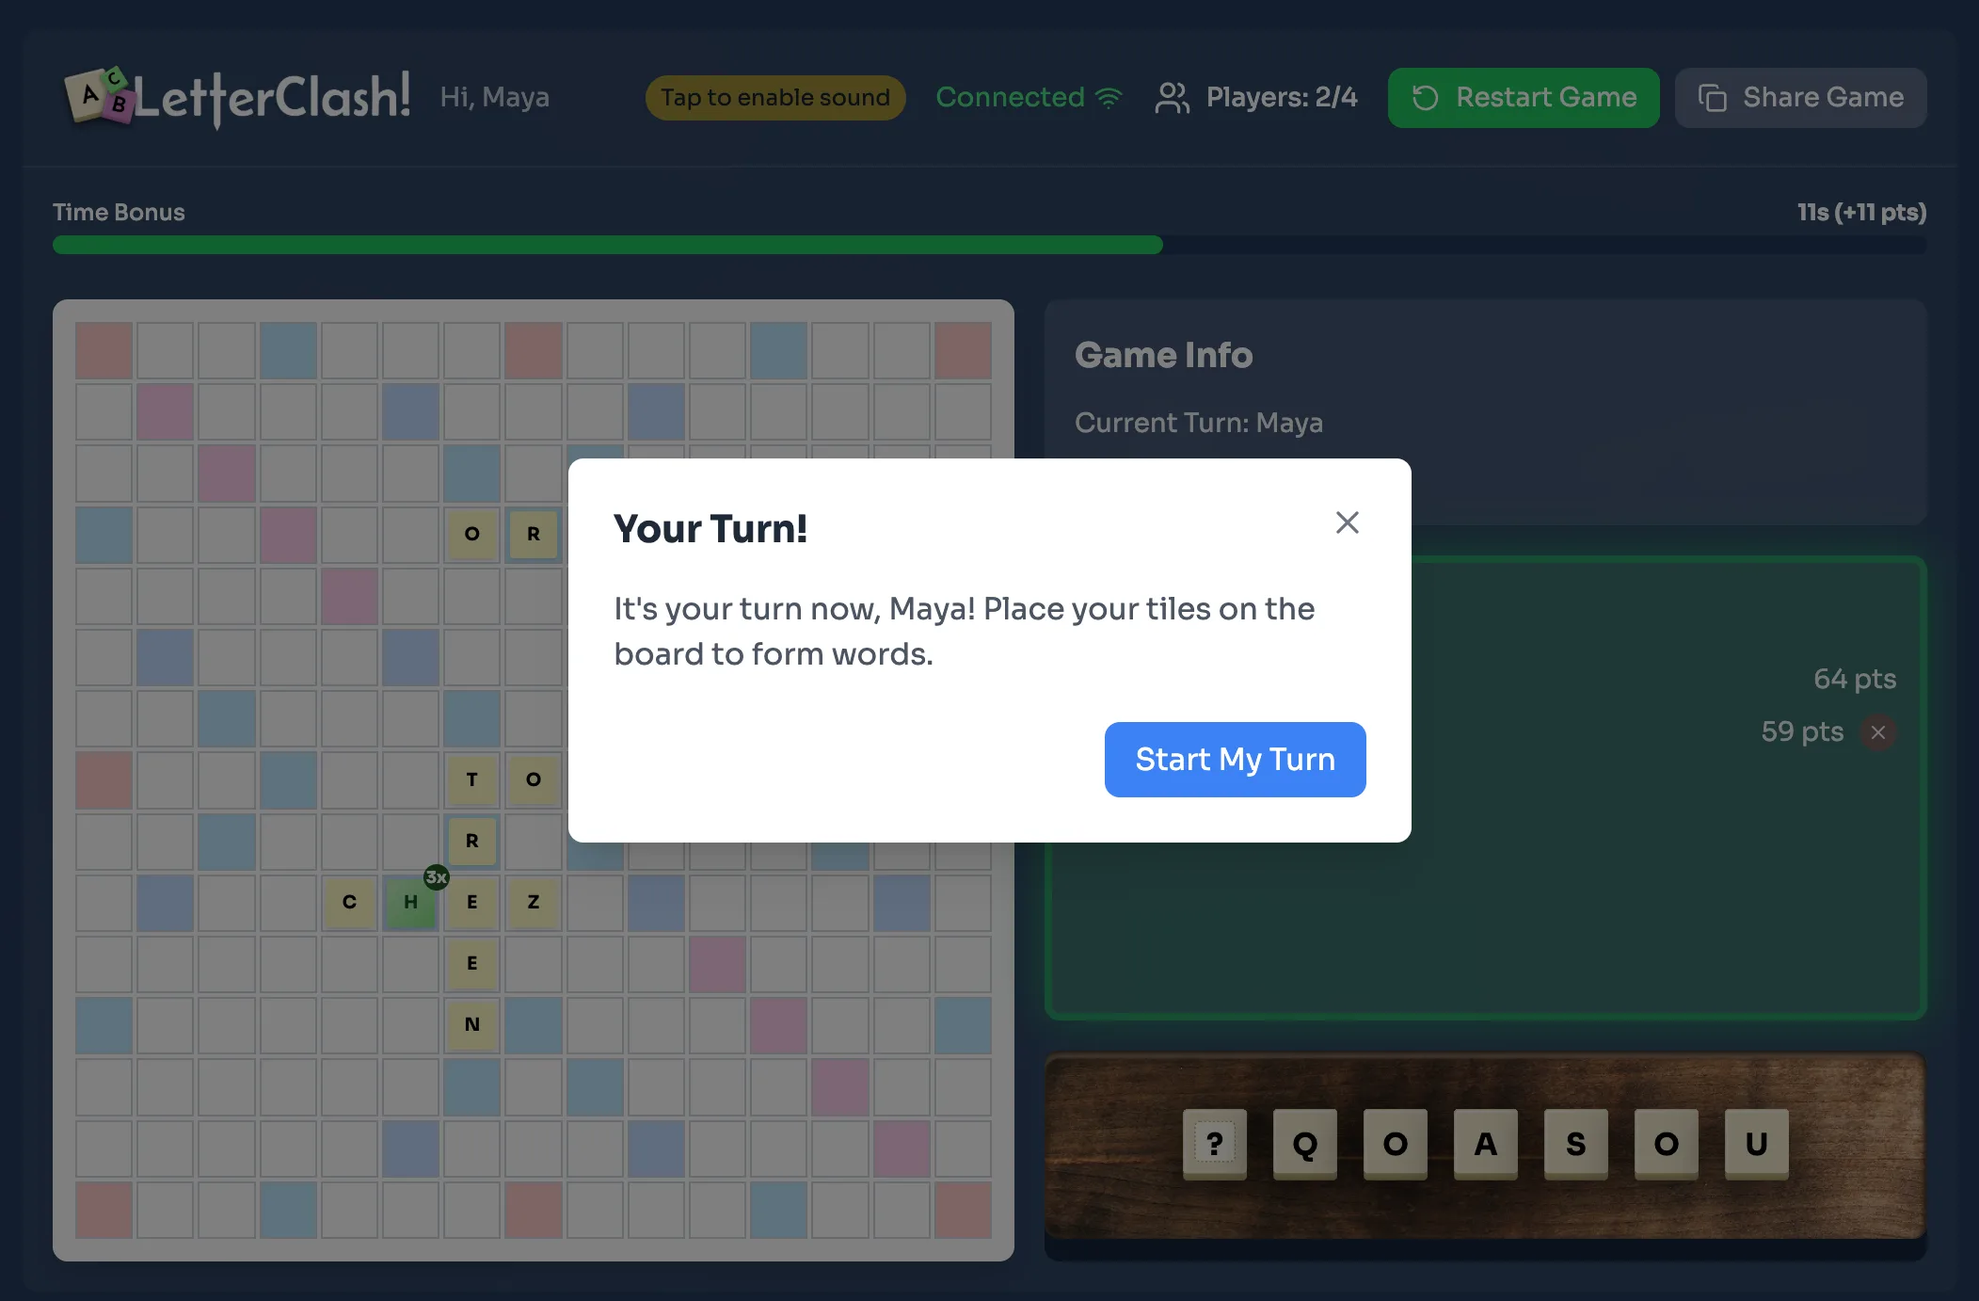
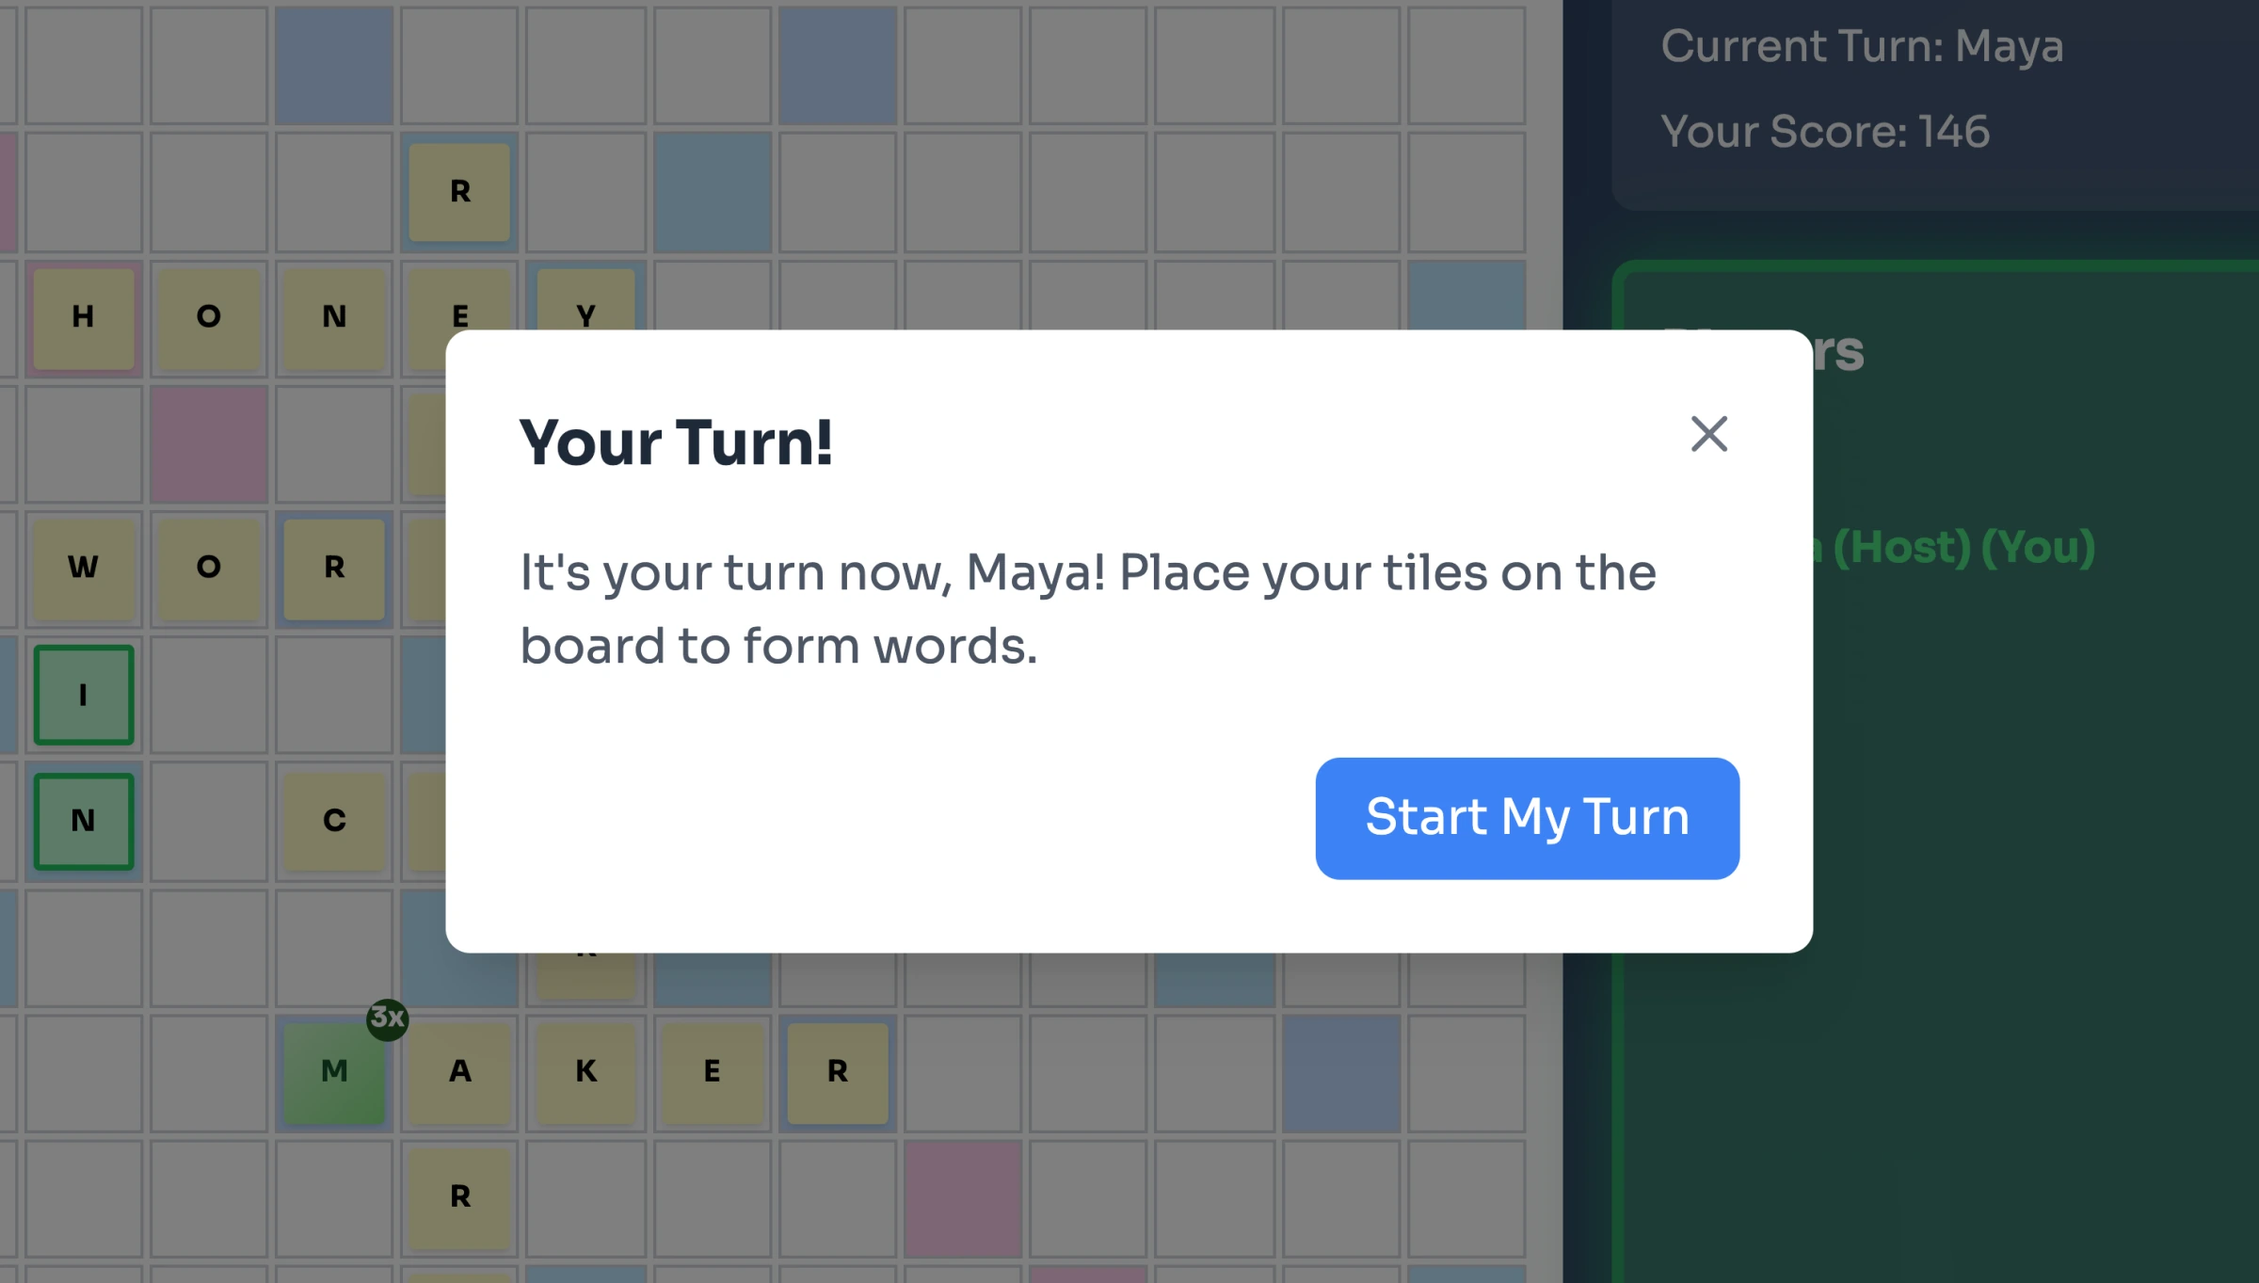
Refresh project screenshots and Letter Clash thumbnail

diff --git a/components/sections/thumbs/LetterClashThumb.tsx b/components/sections/thumbs/LetterClashThumb.tsx
@@ -1,247 +1,76 @@
 "use client";
 
-import * as React from "react";
-import { motion, useReducedMotion } from "framer-motion";
+import { Grid2X2, Timer, Users } from "lucide-react";
 
-const EASE_OUT = [0.22, 1, 0.36, 1] as const;
-// Near-critically damped: tiles snap onto the board, no wobble.
-const TILE_SPRING = { type: "spring", stiffness: 520, damping: 38, mass: 0.75 } as const;
-
-// Full-bleed board: 16 × 10 square cells exactly fill the card's 16:10 thumb.
-const COLS = 16;
-const ROWS = 10;
-const INK = "#1a1a1a";
-
-// MIKOLAJEK across row 4; PAWEL down col 8; the words share the A at (4,8).
-const ACROSS_ROW = 4;
-const DOWN_COL = 8;
-
-const ACROSS = [
-  { c: "M", v: 3, col: 3 },
-  { c: "I", v: 1, col: 4 },
-  { c: "K", v: 5, col: 5 },
-  { c: "O", v: 1, col: 6 },
-  { c: "L", v: 1, col: 7 },
-  { c: "A", v: 1, col: 8 },
-  { c: "J", v: 8, col: 9 },
-  { c: "E", v: 1, col: 10 },
-  { c: "K", v: 5, col: 11 },
+const PLAYED = [
+  { letter: "C", value: 3, row: 2, col: 1 },
+  { letter: "L", value: 1, row: 2, col: 2 },
+  { letter: "A", value: 1, row: 2, col: 3 },
+  { letter: "S", value: 1, row: 2, col: 4 },
+  { letter: "H", value: 4, row: 2, col: 5 },
+];
+const MOVE = [
+  { letter: "P", value: 3, row: 1, col: 3 },
+  { letter: "W", value: 4, row: 3, col: 3 },
 ];
 
-// The hover move, top to bottom, skipping the shared A at row 4.
-const DOWN = [
-  { c: "P", v: 3, row: 3 },
-  { c: "W", v: 4, row: 5 },
-  { c: "E", v: 1, row: 6 },
-  { c: "L", v: 1, row: 7 },
-];
-
-const DROP_DELAY = (i: number) => 0.05 + i * 0.045;
-// The board scores MIKOLAJEK once the last tile lands.
-const SCORE_DELAY = DROP_DELAY(DOWN.length - 1) + 0.2;
-
-function cellStyle(row: number, col: number): React.CSSProperties {
-  return {
-    left: `${(col / COLS) * 100}%`,
-    top: `${(row / ROWS) * 100}%`,
-    width: `${100 / COLS}%`,
-    height: `${100 / ROWS}%`,
-  };
-}
-
-/**
- * Letter Clash thumbnail. A board mid-game: MIKOLAJEK is already played
- * across, with dashed slots marking the next move. On hover PAWEL drops in
- * tile by tile through the shared A — the two words cross to spell the full
- * name, the A pulses as the words connect, and the move scores.
- */
+/** A cropped game board with an opponent's move arriving as live ghost tiles. */
 export function LetterClashThumb({ hovered }: { hovered: boolean }) {
-  const reduced = !!useReducedMotion();
-  const active = !!hovered;
-
-  return (
-    <div className="relative h-full w-full overflow-hidden bg-[#fcfbf8]">
-      {/* Camera layer: board and tiles zoom together */}
-      <motion.div
-        className="absolute inset-0"
-        initial={false}
-        animate={{ scale: active && !reduced ? 1.03 : 1 }}
-        transition={{ duration: 0.5, ease: EASE_OUT }}
-        style={{
-          backgroundImage:
-            "linear-gradient(to right, rgba(0,0,0,0.045) 1px, transparent 1px), linear-gradient(to bottom, rgba(0,0,0,0.045) 1px, transparent 1px)",
-          backgroundSize: `${100 / COLS}% ${100 / ROWS}%`,
-        }}
-        aria-hidden
-      >
-        {/* Dashed slots where the hover move will land */}
-        {DOWN.map(({ row }) => (
-          <div key={`ghost-${row}`} className="absolute" style={cellStyle(row, DOWN_COL)}>
-            <div
-              className="absolute"
-              style={{
-                inset: "9%",
-                borderRadius: 5,
-                border: "1.5px dashed rgba(21,21,21,0.16)",
-              }}
-            />
-          </div>
-        ))}
-
-        {/* An earlier move, played and faded */}
-        <RestTile row={1} col={13} c="H" v={4} muted />
-        <RestTile row={2} col={13} c="M" v={3} muted />
-
-        {/* MIKOLAJEK, already on the board */}
-        {ACROSS.map(({ c, v, col }) =>
-          col === DOWN_COL ? (
-            // The shared A pulses when the down word connects through it.
-            <motion.div
-              key={`across-${col}`}
-              className="absolute"
-              style={cellStyle(ACROSS_ROW, col)}
-              initial={false}
-              animate={active && !reduced ? { scale: [1, 1.12, 1] } : { scale: 1 }}
-              transition={{ duration: 0.32, ease: EASE_OUT, delay: 0.4 }}
-            >
-              <Tile c={c} v={v} />
-            </motion.div>
-          ) : (
-            <RestTile key={`across-${col}`} row={ACROSS_ROW} col={col} c={c} v={v} />
-          )
-        )}
-
-        {/* Hover: PAWEL drops in, top to bottom */}
-        {DOWN.map(({ c, v, row }, i) => (
-          <div key={`down-${row}`} className="absolute" style={cellStyle(row, DOWN_COL)}>
-            <motion.div
-              className="absolute inset-0"
-              initial={false}
-              animate={
-                reduced
-                  ? { y: "0%", scale: 1, opacity: active ? 1 : 0 }
-                  : {
-                      y: active ? "0%" : "-110%",
-                      scale: active ? 1 : 1.06,
-                      opacity: active ? 1 : 0,
-                    }
-              }
-              transition={
-                reduced
-                  ? { duration: 0.2 }
-                  : active
-                    ? {
-                        ...TILE_SPRING,
-                        delay: DROP_DELAY(i),
-                        opacity: { duration: 0.14, delay: DROP_DELAY(i) },
-                      }
-                    : { duration: 0.18, ease: EASE_OUT }
-              }
-            >
-              <Tile c={c} v={v} />
-            </motion.div>
-          </div>
-        ))}
-
-        {/* The move scores once the last tile lands */}
-        <motion.div
-          className="absolute z-10 flex items-center justify-center"
-          style={{
-            left: `${(9.3 / COLS) * 100}%`,
-            top: `${(7.15 / ROWS) * 100}%`,
-          }}
-          initial={false}
-          animate={
-            reduced
-              ? { opacity: active ? 1 : 0, scale: 1, y: 0 }
-              : {
-                  opacity: active ? 1 : 0,
-                  scale: active ? 1 : 0.6,
-                  y: active ? 0 : 6,
-                }
-          }
-          transition={
-            reduced
-              ? { duration: 0.2 }
-              : active
-                ? { ...TILE_SPRING, delay: SCORE_DELAY, opacity: { duration: 0.15, delay: SCORE_DELAY } }
-                : { duration: 0.15, ease: EASE_OUT }
-          }
-        >
-          <span
-            className="rounded-full px-2.5 py-1 text-[11px] font-semibold leading-none"
-            style={{
-              background: INK,
-              color: "#fcfbf8",
-              boxShadow: "0 8px 16px -8px rgba(0,0,0,0.5)",
-            }}
-          >
-            +10
-          </span>
-        </motion.div>
-      </motion.div>
-    </div>
-  );
-}
-
-function RestTile({
-  row,
-  col,
-  c,
-  v,
-  muted,
-}: {
-  row: number;
-  col: number;
-  c: string;
-  v: number;
-  muted?: boolean;
-}) {
-  return (
-    <div className="absolute" style={cellStyle(row, col)}>
-      <Tile c={c} v={v} muted={muted} />
-    </div>
-  );
-}
-
-function Tile({ c, v, muted }: { c: string; v: number; muted?: boolean }) {
   return (
     <div
-      className="absolute"
-      style={{
-        inset: "5%",
-        borderRadius: 5,
-        background: muted ? "#f1efe9" : "#ffffff",
-        opacity: muted ? 0.65 : 1,
-        boxShadow: muted
-          ? "0 0 0 1px rgba(0,0,0,0.06)"
-          : "0 1px 0 rgba(255,255,255,0.6) inset, 0 6px 12px -6px rgba(0,0,0,0.3), 0 0 0 1px rgba(0,0,0,0.05)",
-      }}
+      aria-hidden="true"
+      className="relative h-full w-full overflow-hidden"
+      style={{ containerType: "inline-size", background: "#e6bc79", color: "#30291f", fontFamily: "var(--font-hanken), sans-serif" }}
     >
-      {/* SVG so the lettering scales with the tile at any card size */}
-      <svg viewBox="0 0 100 100" className="block h-full w-full">
-        <text
-          x="50"
-          y="50"
-          dominantBaseline="central"
-          textAnchor="middle"
-          fontSize="48"
-          fontWeight="600"
-          fill={INK}
-        >
-          {c}
-        </text>
-        <text
-          x="80"
-          y="84"
-          textAnchor="middle"
-          fontSize="20"
-          fontWeight="600"
-          fill="rgba(21,21,21,0.4)"
-        >
-          {v}
-        </text>
-      </svg>
+      <div className="absolute left-[7%] top-[7%] flex items-center gap-[1.4cqw] text-[2.2cqw] font-semibold tracking-[0.04em]">
+        <Grid2X2 className="size-[3cqw]" strokeWidth={1.7} /> Letter Clash
+      </div>
+
+      <div className="absolute left-[9%] top-[13cqw] w-[82%] rounded-[2cqw] border border-black/10 bg-[#fcfbf8] p-[3cqw] shadow-[0_3cqw_6cqw_-3cqw_rgba(83,54,20,0.4)]">
+        <div className="flex items-center justify-between gap-[2cqw]">
+          <div className="flex items-center gap-[1.5cqw]">
+            <span className="grid size-[5cqw] place-items-center rounded-full bg-[#e8dcc6] text-[2.2cqw] font-semibold">M</span>
+            <div>
+              <div className="text-[2.7cqw] font-semibold leading-tight">Maya’s turn</div>
+              <div className="mt-[0.4cqw] text-[1.9cqw] text-[#796b55]">Live multiplayer</div>
+            </div>
+          </div>
+          <span className="flex items-center gap-[0.8cqw] rounded-full bg-[#e5eedf] px-[1.6cqw] py-[0.8cqw] text-[2.2cqw] font-semibold text-[#46603d]">
+            <Timer className="size-[2.6cqw]" strokeWidth={1.7} /> 20s
+          </span>
+        </div>
+
+        <div className="relative mt-[2.5cqw] grid grid-cols-7 gap-[0.5cqw] rounded-[1cqw] bg-[#e3dfd5] p-[0.6cqw]">
+          {Array.from({ length: 35 }, (_, i) => {
+            const row = Math.floor(i / 7);
+            const col = i % 7;
+            const played = PLAYED.find((tile) => tile.row === row && tile.col === col);
+            const move = MOVE.find((tile) => tile.row === row && tile.col === col);
+            const tile = played ?? (hovered ? move : undefined);
+            return (
+              <div
+                key={i}
+                className="relative flex h-[5.4cqw] items-center justify-center rounded-[0.5cqw]"
+                style={{
+                  background: tile ? (move ? "#e3ead8" : "#fffdf6") : "#f1eee6",
+                  boxShadow: played ? "0 0.4cqw 0 #cfc5b2, 0 0 0 1px #d6ccba" : undefined,
+                  outline: tile && move ? "1px dashed #8a9b75" : undefined,
+                }}
+              >
+                {tile && <>
+                  <span className="text-[3.2cqw] font-semibold leading-none" style={{ color: move ? "#7b8c67" : "#30291f" }}>{tile.letter}</span>
+                  <span className="absolute bottom-[0.4cqw] right-[0.6cqw] text-[1.2cqw] font-semibold text-[#8b806d]">{tile.value}</span>
+                </>}
+              </div>
+            );
+          })}
+        </div>
+
+        <div className="mt-[2.3cqw] flex items-center justify-between gap-[1cqw] text-[2cqw]">
+          <span className="flex items-center gap-[0.9cqw] text-[#796b55]"><Users className="size-[2.5cqw]" strokeWidth={1.7} /> {hovered ? "Maya is placing tiles…" : "Two players. One board."}</span>
+          <span className="font-semibold">Maya 42 <span className="mx-[0.6cqw] text-[#b0a592]">:</span> Tom 38</span>
+        </div>
+      </div>
     </div>
   );
 }

diff --git a/content/case-studies/letter-clash.ts b/content/case-studies/letter-clash.ts
@@ -22,21 +22,21 @@ export const letterClash: CaseStudy = {
   shots: [
     {
       src: "/case-studies/letter-clash/01-placing-a-word.webp",
-      alt: "Letter Clash mid-game: a 15 by 15 board with several words, a green time-bonus bar at the top, the scoreboard, and three tiles placed beside an existing letter with Submit Word and Clear buttons",
+      alt: "A four-player Letter Clash match with a connected board of words, STORM being placed, a 3x bonus on M, and eight seconds left on the amber turn clock",
       caption:
-        "A turn in progress. The bar is the clock and the remaining seconds become bonus points. Placed tiles are highlighted until you submit. Screenshots show a sample game between two demo players.",
+        "Eight seconds to make a move. Maya is building STORM around an existing T, with a 3× bonus on M and Tom twelve points ahead. Screenshots use a staged four-player demo in the actual game UI.",
       kind: "hero",
     },
     {
       src: "/case-studies/letter-clash/02-live-opponent-view.webp",
-      alt: "The same game from the opponent's side, with the other player's three in-progress tiles shown as faint ghosts on the board",
+      alt: "Close-up of the board from Tom’s view: four orange ghost tiles form STORM around an existing T, beside the previously played words CLASH and MAKER",
       caption:
-        "The other seat. While Maya places a word, Tom watches the tiles arrive as ghosts, before anything is scored.",
+        "The other seat, up close. Tom sees Maya’s orange ghost tiles form STORM before the move is submitted. The board makes the other player’s thinking visible in real time.",
       kind: "wide",
     },
     {
       src: "/case-studies/letter-clash/03-turn-prompt.webp",
-      alt: "A Your Turn prompt over the dimmed board with a Start My Turn button",
+      alt: "Close-up of the Your Turn prompt for Maya, with a Start My Turn button over the dimmed board and four-player scoreboard",
       caption:
         "When it's your move, a prompt takes you straight back into the game, even if you were working in another tab.",
       kind: "wide",

diff --git a/content/case-studies/deal-room.ts b/content/case-studies/deal-room.ts
@@ -29,23 +29,23 @@ export const dealRoom: CaseStudy = {
     },
     {
       src: "/case-studies/deal-room/02-files.webp",
-      alt: "Discovery folder in the client space, showing document thumbnails and a searchable file browser",
+      alt: "Close-up of three Discovery file previews: the client landing page, site audit and workshop notes",
       caption:
         "Recognise the work before opening it. Files are grouped into plain-language folders and previewed using their actual content.",
       kind: "wide",
     },
     {
       src: "/case-studies/deal-room/03-audit.webp",
-      alt: "A website audit opened inside the client space, with its scores and detailed findings",
+      alt: "Close-up of the website audit’s performance, accessibility, best-practice and SEO scores, with critical and important findings",
       caption:
         "The document keeps its form. An audit opens in the space with its scores and findings; interactive HTML files can run here too.",
       kind: "wide",
     },
     {
       src: "/case-studies/deal-room/04-publishing.webp",
-      alt: "Staff view of the file library with upload, publishing and sharing controls",
+      alt: "Close-up of the staff upload dialog with a sample workshop PDF selected, its name and folder, and an explanation that uploads remain drafts",
       caption:
-        "The staff view adds the controls needed to prepare and publish the work. Draft files remain separate from what clients can see.",
+        "Publishing starts with a clear boundary. The upload dialog says who can see the file: it stays a draft for Human Made until someone deliberately publishes it to the client.",
       kind: "wide",
     },
   ],

diff --git a/content/case-studies/hm-brand-guidelines.ts b/content/case-studies/hm-brand-guidelines.ts
@@ -36,16 +36,16 @@ export const hmBrandGuidelines: CaseStudy = {
     },
     {
       src: "/case-studies/hm-brand-guidelines/03-editorial-voice.webp",
-      alt: "Human Made's Voice and Tone guidance with expandable editorial rules and examples",
+      alt: "Close-up of two expanded voice pillars, Specific, not vague and Open, not aloof, with contrasting use and avoid examples",
       caption:
         "The system covers how Human Made writes as well as how it looks. Voice rules, editorial principles and format playbooks also live in the skill's references.",
       kind: "wide",
     },
     {
-      src: "/case-studies/hm-brand-guidelines/04-tools-suite.webp",
-      alt: "Human Made tools hub linking to the business-card generator, Asset Library and Round Table",
+      src: "/case-studies/hm-brand-guidelines/04-business-card.webp",
+      alt: "Close-up of the business-card generator’s front and back previews, with a red name card and Human Made wordmark using fictional contact details",
       caption:
-        "The practical layer of the suite: tools that turn the brand system into a business card, an asset download or a team diagram.",
+        "The system becomes something you can make. The business-card generator applies the brand to live front and back previews, ready to export for print. This example uses fictional contact details.",
       kind: "wide",
     },
   ],

diff --git a/content/case-studies/sparrow.ts b/content/case-studies/sparrow.ts
@@ -44,9 +44,9 @@ export const sparrow: CaseStudy = {
     },
     {
       src: "/case-studies/sparrow/04-dashboard.webp",
-      alt: "Sparrow project dashboard showing a sample PDF's cover, version, page count, open comments and review and upload actions",
+      alt: "Close-up of a project card with the sample PDF cover, version, open comment count, and View & Comment and Upload Version actions",
       caption:
-        "The library keeps the current version and open feedback visible, with a direct route into the review or the next upload.",
+        "One project card keeps the current version and open feedback visible, with a direct route into the review or the next upload.",
       kind: "wide",
     },
   ],
